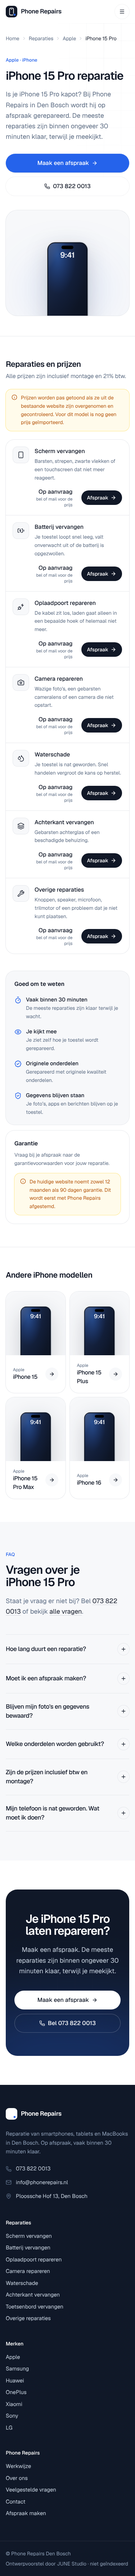
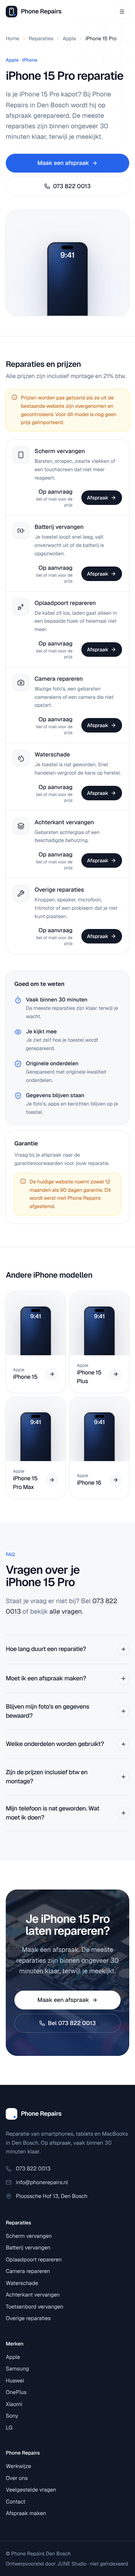
Add licensed Adobe Stock photography to hero, about, process and CTA
Four photos from the Adobe Stock Free Collection (resized, served via
next/image with blur placeholders). The exploded-phone visual moves to
the /werkwijze page header. Credits and licence notes in
docs/image-credits.md; data-gaps notes these are not photos of the shop.

Claude-Session: https://claude.ai/code/session_01LJfatS4q6iAE5HYtSgb5LR

Changed region(s): [[0.0293, 0.7184, 0.968, 0.8122]]

diff --git a/src/components/home/hero.tsx b/src/components/home/hero.tsx
@@ -1,6 +1,7 @@
 import Link from "next/link";
 import { ArrowRight, Eye, MapPin, ShieldCheck, Timer } from "lucide-react";
-import { ExplodedPhone } from "@/components/home/exploded-phone";
+import Image from "next/image";
+import heroPhoto from "@/assets/photos/hero-screen-repair.jpg";
 import { Button } from "@/components/ui/button";
 import { site } from "@/lib/site";
 
@@ -54,9 +55,20 @@ export function Hero() {
           </ul>
         </div>
 
-        <div className="relative -mx-4 mt-24 -mb-12 sm:mx-0 sm:mt-10 sm:mb-0 lg:mt-0">
-          <ExplodedPhone />
-          <FloatingCard className="top-[14%] right-[2%] sm:right-[6%]" delay="0.9s">
+        <div className="relative mt-4 lg:mt-0 lg:pl-6">
+          <div className="relative aspect-square overflow-hidden rounded-[var(--radius-panel)] bg-mist shadow-[var(--shadow-lift)] ring-1 ring-line sm:aspect-[5/4] lg:aspect-[4/5]">
+            <Image
+              src={heroPhoto}
+              alt="Technicus opent een smartphone met gebarsten scherm op een werkmat met reparatiegereedschap"
+              fill
+              priority
+              placeholder="blur"
+              sizes="(min-width: 1024px) 45vw, 100vw"
+              className="object-cover object-[62%_55%]"
+            />
+            <div className="absolute inset-0 bg-[linear-gradient(to_top,rgb(16_24_40/0.35),transparent_45%)]" aria-hidden />
+          </div>
+          <FloatingCard className="bottom-4 left-4 sm:top-8 sm:right-8 sm:bottom-auto sm:left-auto lg:-right-4" delay="0.5s">
             <span className="grid size-9 place-items-center rounded-xl bg-accent-soft text-accent">
               <Timer className="size-[1.125rem]" aria-hidden />
             </span>
@@ -65,7 +77,7 @@ export function Hero() {
               <span className="block text-xs text-muted">Vaak binnen 30 minuten</span>
             </span>
           </FloatingCard>
-          <FloatingCard className="bottom-[24%] left-[2%] sm:left-[8%]" delay="1.1s">
+          <FloatingCard className="bottom-5 left-4 max-sm:hidden sm:bottom-8 sm:left-8 lg:left-0" delay="0.7s">
             <span className="grid size-9 place-items-center rounded-xl bg-ink text-white">
               <Eye className="size-[1.125rem]" aria-hidden />
             </span>
@@ -91,7 +103,7 @@ function FloatingCard({
 }) {
   return (
     <div
-      className={`absolute hidden animate-fade-up sm:flex items-center gap-3 rounded-2xl bg-white/85 py-2.5 pr-4 pl-2.5 shadow-[var(--shadow-lift)] ring-1 ring-line backdrop-blur-md ${className}`}
+      className={`absolute flex animate-fade-up items-center gap-3 rounded-2xl bg-white/85 py-2.5 pr-4 pl-2.5 shadow-[var(--shadow-lift)] ring-1 ring-line backdrop-blur-md ${className}`}
       style={{ animationDelay: delay }}
       aria-hidden
     >

diff --git a/src/components/home/about.tsx b/src/components/home/about.tsx
@@ -1,6 +1,7 @@
 import Link from "next/link";
 import { ArrowRight } from "lucide-react";
-import { DeviceArt } from "@/components/devices/device-art";
+import Image from "next/image";
+import aboutPhoto from "@/assets/photos/about-workshop.jpg";
 import { Reveal } from "@/components/motion/reveal";
 import { SectionHeading } from "@/components/ui/section-heading";
 
@@ -15,11 +16,15 @@ export function About() {
     <section className="py-20 lg:py-28">
       <div className="container-page grid items-center gap-14 lg:grid-cols-2 lg:gap-20">
         <Reveal className="order-2 lg:order-1">
-          <div className="relative aspect-[5/4] overflow-hidden rounded-[var(--radius-panel)] bg-mist ring-1 ring-line">
-            <div className="bg-grid absolute inset-0 [mask-image:radial-gradient(ellipse_at_center,#000,transparent_75%)]" aria-hidden />
-            <DeviceArt art="laptop" className="absolute bottom-[14%] left-[6%] w-[62%]" />
-            <DeviceArt art="tablet" className="absolute right-[18%] bottom-[10%] w-[26%]" />
-            <DeviceArt art="phone-island" className="absolute right-[7%] bottom-[8%] w-[13%]" />
+          <div className="relative aspect-[5/4] overflow-hidden rounded-[var(--radius-panel)] bg-mist shadow-[var(--shadow-soft)] ring-1 ring-line">
+            <Image
+              src={aboutPhoto}
+              alt="Technicus onderzoekt met een loep de binnenkant van een smartphone in een reparatiewerkplaats"
+              fill
+              placeholder="blur"
+              sizes="(min-width: 1024px) 40vw, 100vw"
+              className="object-cover object-[60%_50%]"
+            />
           </div>
         </Reveal>
         <div className="order-1 lg:order-2">

diff --git a/src/components/home/final-cta.tsx b/src/components/home/final-cta.tsx
@@ -1,5 +1,7 @@
 import Link from "next/link";
 import { ArrowRight, Phone } from "lucide-react";
+import Image from "next/image";
+import ctaPhoto from "@/assets/photos/cta-internals.jpg";
 import { Reveal } from "@/components/motion/reveal";
 import { Button } from "@/components/ui/button";
 import { site } from "@/lib/site";
@@ -15,7 +17,15 @@ export function FinalCta({
     <section className="px-4 pb-20 sm:px-6 lg:px-8 lg:pb-28">
       <Reveal>
         <div className="relative isolate mx-auto max-w-[76rem] overflow-hidden rounded-[var(--radius-panel)] bg-night px-6 py-16 text-center sm:px-12 lg:py-24">
-          <div className="bg-grid absolute inset-0 -z-10 opacity-40 invert [mask-image:radial-gradient(ellipse_at_center,#000,transparent_70%)]" aria-hidden />
+          <Image
+            src={ctaPhoto}
+            alt=""
+            fill
+            placeholder="blur"
+            sizes="(min-width: 1280px) 76rem, 100vw"
+            className="-z-20 object-cover"
+          />
+          <div className="absolute inset-0 -z-10 bg-[linear-gradient(to_bottom,rgb(16_24_40/0.7),rgb(16_24_40/0.88))]" aria-hidden />
           <div className="absolute -bottom-32 left-1/2 -z-10 h-64 w-[40rem] -translate-x-1/2 rounded-full bg-accent/35 blur-[100px]" aria-hidden />
           <h2 className="mx-auto max-w-2xl text-headline font-semibold text-balance text-white">{title}</h2>
           <p className="mx-auto mt-5 max-w-xl text-lg leading-relaxed text-pretty text-slate-300">{body}</p>

diff --git a/src/components/home/how-it-works.tsx b/src/components/home/how-it-works.tsx
@@ -1,3 +1,5 @@
+import Image from "next/image";
+import processPhoto from "@/assets/photos/process-workbench.jpg";
 import { Reveal } from "@/components/motion/reveal";
 import { SectionHeading } from "@/components/ui/section-heading";
 
@@ -46,6 +48,21 @@ export function HowItWorks({ withHeading = true }: { withHeading?: boolean }) {
             </li>
           ))}
         </ol>
+        <Reveal className="mt-16 lg:mt-20">
+          <figure className="relative aspect-[4/3] overflow-hidden rounded-[var(--radius-panel)] bg-mist ring-1 ring-line sm:aspect-[21/9]">
+            <Image
+              src={processPhoto}
+              alt="Werkbank met geopende smartphones, onderdelen en precisiegereedschap"
+              fill
+              placeholder="blur"
+              sizes="(min-width: 1280px) 76rem, 100vw"
+              className="object-cover object-[50%_60%]"
+            />
+            <figcaption className="absolute bottom-4 left-4 rounded-full bg-white/90 px-4 py-2 text-sm font-medium text-ink shadow-[var(--shadow-soft)] backdrop-blur sm:bottom-6 sm:left-6">
+              Vakwerk, onderdeel voor onderdeel
+            </figcaption>
+          </figure>
+        </Reveal>
       </div>
     </section>
   );

diff --git a/scripts/validation/report.ts b/scripts/validation/report.ts
@@ -187,7 +187,7 @@ ${crawlConflictRows}
 | Postal code | ${site.address.postalCode ?? "missing"} | LocalBusiness schema, contact page |
 | Exact opening hours | missing (only "7 dagen per week, ook ’s avonds") | Contact page, OpeningHoursSpecification |
 | Original "Over Phone Repairs" text | not extracted | /over-ons |
-| Photos of the shop / technicians | none (no stock photos used) | Hero, about section |
+| Photos of the shop / technicians | none — generic Adobe Stock photos used (docs/image-credits.md) | Hero, about, process band, CTA |
 | Official device photography | none (vector renders used) | Device pages |
 | Area landing pages (Rosmalen, Rompert, Helftheuvel, …) | content not extracted | Local SEO; keep original URLs |
 | Blog/news posts | not inventoried | Blog template |

diff --git a/src/app/werkwijze/page.tsx b/src/app/werkwijze/page.tsx
@@ -1,4 +1,5 @@
 import type { Metadata } from "next";
+import { ExplodedPhone } from "@/components/home/exploded-phone";
 import { FinalCta } from "@/components/home/final-cta";
 import { HowItWorks } from "@/components/home/how-it-works";
 import { Trust } from "@/components/home/trust";
@@ -19,6 +20,11 @@ export default function ProcessPage() {
         eyebrow="Werkwijze"
         title="Helder, persoonlijk en snel."
         intro="Van het kiezen van je toestel tot het moment dat je weer naar buiten loopt: zo verloopt een reparatie bij Phone Repairs."
+        aside={
+          <div className="mx-auto max-w-md">
+            <ExplodedPhone />
+          </div>
+        }
       />
       <HowItWorks withHeading={false} />
       <Trust />

diff --git a/docs/image-credits.md b/docs/image-credits.md
@@ -1,0 +1,17 @@
+# Image credits
+
+Photos are from the **Adobe Stock Free Collection**, licensed on 2026-10-08 via the JUNE Studio Adobe account
+(Adobe Stock standard licence; no attribution required). They are stored resized (max 2000 px) in
+`src/assets/photos/` and served through `next/image`.
+
+| File | Adobe Stock ID | Used in | Description |
+| --- | --- | --- | --- |
+| `hero-screen-repair.jpg` | 735790954 | Homepage hero | Hands opening a phone with a cracked screen on a repair mat |
+| `about-workshop.jpg` | 257975054 | About section (home, /over-ons) | Technician inspecting a smartphone with a magnifier in a workshop |
+| `process-workbench.jpg` | 300745045 | "Zo werkt het" photo band | Workbench with opened smartphones, parts and tools |
+| `cta-internals.jpg` | 299326526 | Final call-to-action background | Close-up of smartphone internals and soldering iron |
+
+Also licensed but not used: 246194014 (disassembled phone with tools on a light background, copy space).
+
+These are generic stock photos, not photos of Phone Repairs. For launch, replace them with real photography of
+the shop and its technicians where possible (see docs/data-gaps.md).

diff --git a/CLAUDE.md b/CLAUDE.md
@@ -19,7 +19,7 @@ version differs from older training data — check `node_modules/next/dist/docs/
 - `src/app` routes: `/`, `/reparaties`, `/reparaties/[brand]`, `/reparaties/[brand]/[model]`, `/reparatie/[repair]`, info pages, `sitemap.ts`, `robots.ts`.
 - Dynamic routes use `generateStaticParams` + `notFound()` and `export const instant = false` (real 404s, fully static pages).
 - `src/components/{layout,home,devices,repairs,forms,ui,motion}`; UI primitives follow shadcn/ui conventions on `radix-ui`.
-- Devices are drawn as SVG (`DeviceArt`); no stock photography.
+- Devices are drawn as SVG (`DeviceArt`). Atmosphere photos (hero, about, process band, CTA) are licensed Adobe Stock images in `src/assets/photos/`, listed in docs/image-credits.md; add new photos there too and never present stock photos as the shop itself.
 - `scripts/{discovery,migration,validation,lib}` — migration pipeline and QA tooling (run with tsx).
 
 ## Content-preservation rules (non-negotiable)

diff --git a/docs/data-gaps.md b/docs/data-gaps.md
@@ -30,7 +30,7 @@ export (WXR via Tools → Export) or read access to `/wp-json/wp/v2` from the ow
 | Postal code | missing | LocalBusiness schema, contact page |
 | Exact opening hours | missing (only "7 dagen per week, ook ’s avonds") | Contact page, OpeningHoursSpecification |
 | Original "Over Phone Repairs" text | not extracted | /over-ons |
-| Photos of the shop / technicians | none (no stock photos used) | Hero, about section |
+| Photos of the shop / technicians | none — generic Adobe Stock photos used (docs/image-credits.md) | Hero, about, process band, CTA |
 | Official device photography | none (vector renders used) | Device pages |
 | Area landing pages (Rosmalen, Rompert, Helftheuvel, …) | content not extracted | Local SEO; keep original URLs |
 | Blog/news posts | not inventoried | Blog template |

diff --git a/README.md b/README.md
@@ -77,7 +77,9 @@ Self-hosting is also possible with `npm run build && npm start` on Node 20.9+.
 
 ## Stack
 
-- Next.js 16 (App Router, Cache Components), React 19, TypeScript, Tailwind CSS v4;
+- Next.js 16 (App Router, Cache Components), React 19, TypeScript, Tailwind CSS v4, next/image;
 - shadcn/ui-style components on Radix, Lucide icons, Motion, cmdk, react-hook-form, zod, Geist.
+
+Photos come from the Adobe Stock Free Collection, see [docs/image-credits.md](docs/image-credits.md).
 
 Project conventions and content rules are in [CLAUDE.md](CLAUDE.md).
